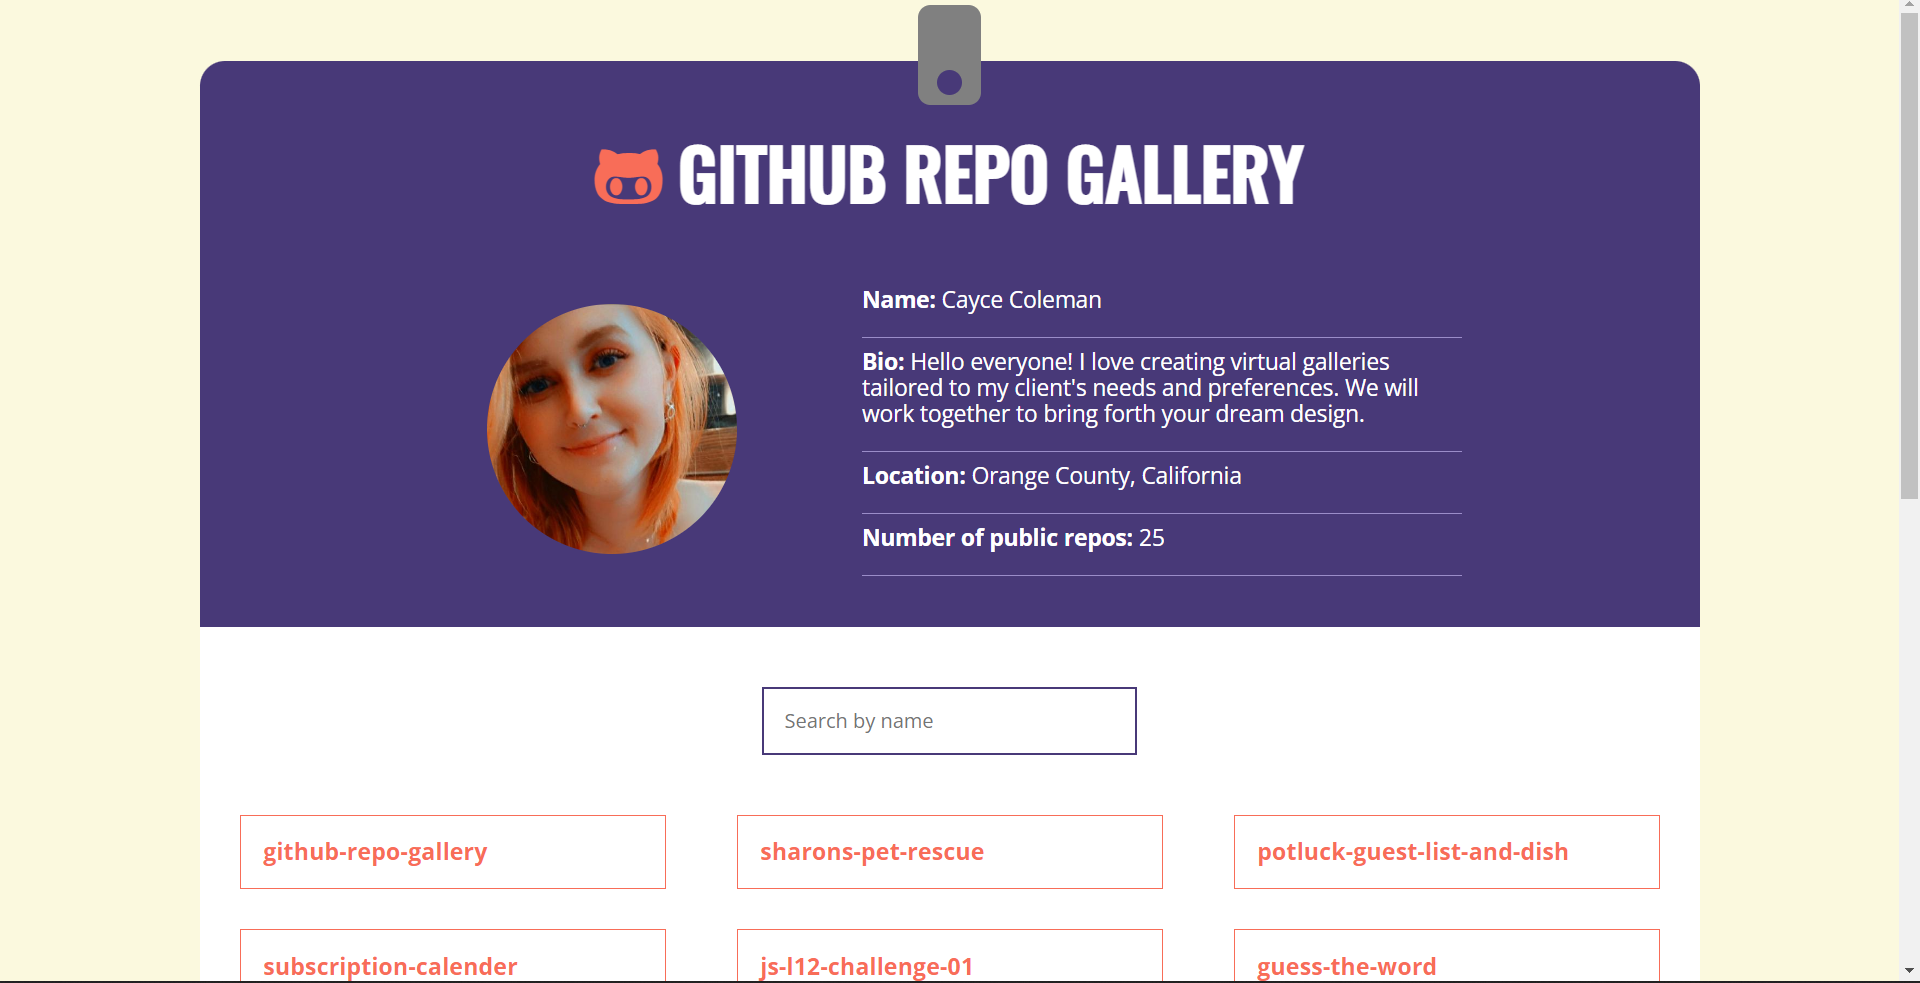
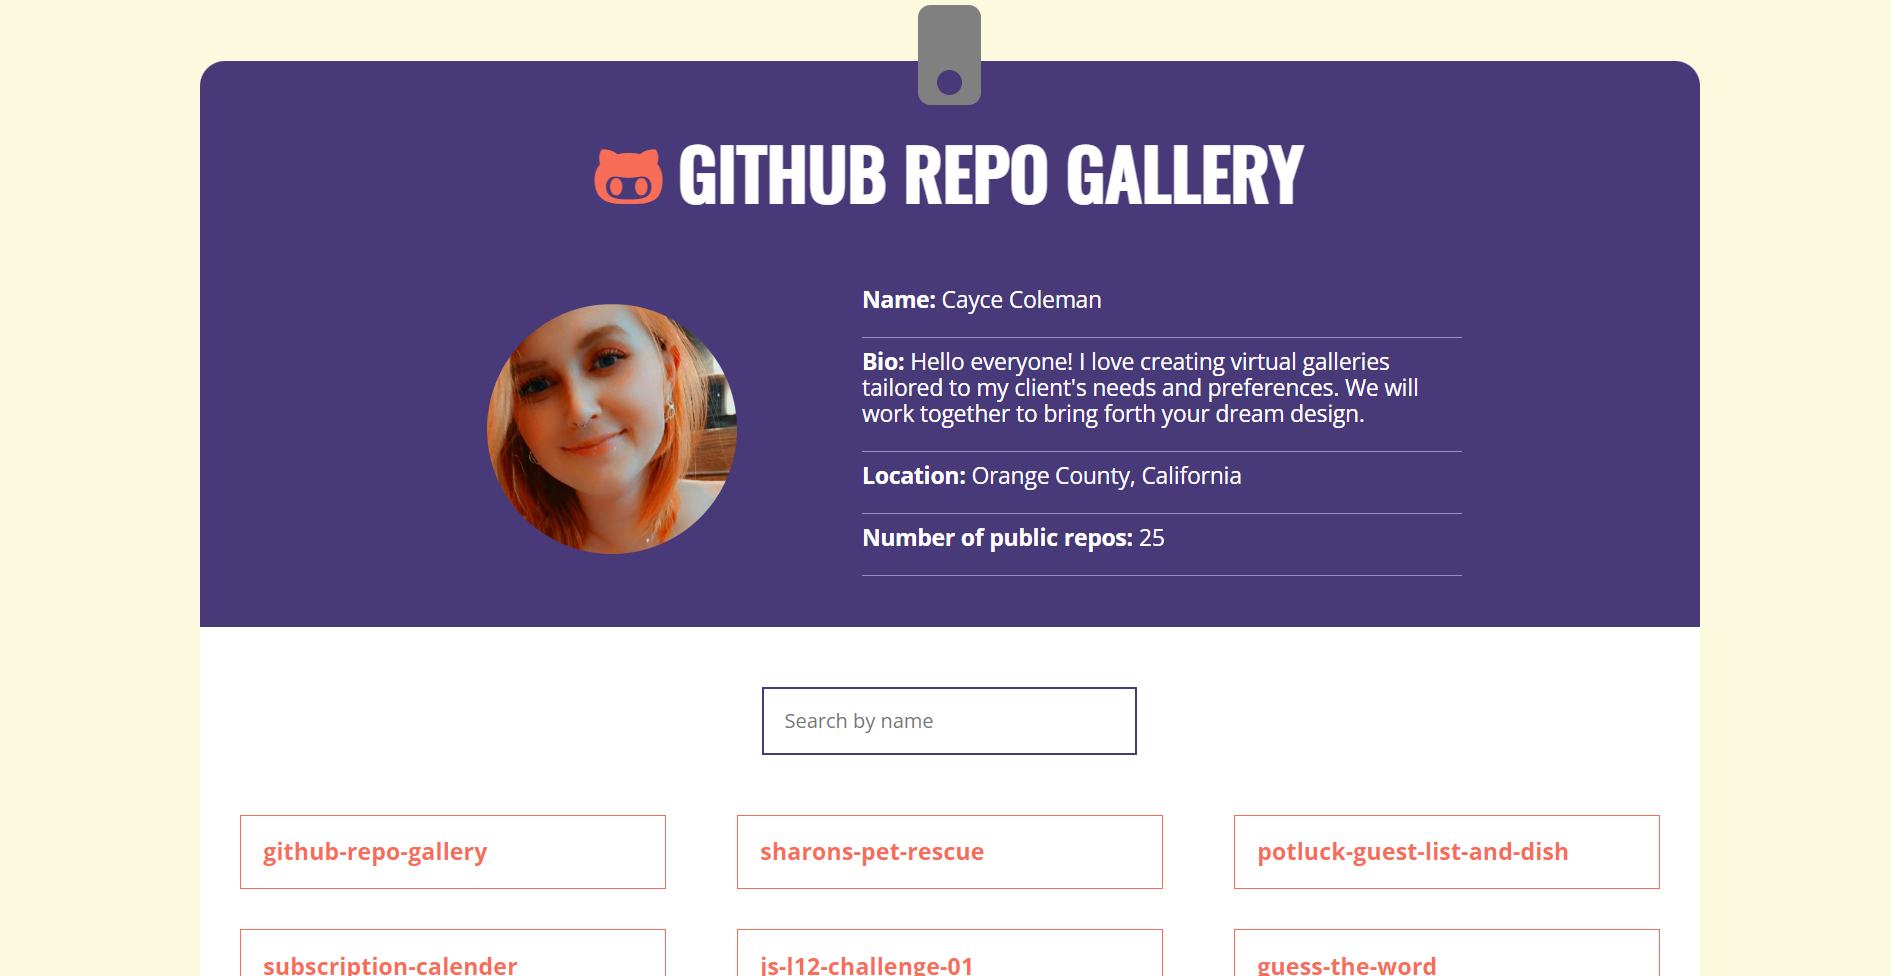
fixed mobile issue

diff --git a/css/main.css b/css/main.css
@@ -34,13 +34,15 @@ header {
 nav ul {
   list-style-type: none;
   width: 100%;
+  text-align: center;
+  margin: auto;
+  padding: 0;
+  overflow: hidden;
 }
 
 nav ul li {
-  float: right;
   margin-right:0.5em;
-  display: block;
-  padding-right: 5em;
+  display: inline-block;
 }
 
 nav ul li a {
@@ -57,9 +59,11 @@ nav ul li a {
 }
 
 .content-wrapper {
- width: 1200px;
- margin: 0 auto;
  overflow: auto;
+ width: 100%;
+ max-width: 1200px;
+ margin: auto;
+ text-align: center;
 }
 
 nav ul li a:hover, nav ul li a:focus {
@@ -89,18 +93,20 @@ h1, h2, h3, h4, h5 {
 #work, #about, #skills, #contact {
   margin-top: 5em;
   margin-bottom: 5em;
+  text-align: center;
 }
 
 .portfolio-projects {
-  width: 550px;
+  width: 100%;
   float: left;
-  margin-right: 2em;
+  margin-right: 1em;
   text-align: center;
 }
 
 img {
- width:20em;
+ width:96%;
  height:15em;
+ margin: auto;
 }
 
 main p a {
@@ -124,7 +130,7 @@ main p a:hover, nav ul li a:focus {
 
 .skills ul li a {
   list-style-type: none;
-  width:1200px;
+  width:100%;
 }
 
 .portfolio-wrapper {
@@ -132,14 +138,12 @@ main p a:hover, nav ul li a:focus {
 }
 
 .half-wrapper {
-  float:left;
-  width:550px;
   padding-left: 20px;
   padding-right: 20px;  
 }
 
 .half-wrapper ul li {
-  text-align: right;
+  text-align: center;
   list-style-type: none;
 }
 
@@ -158,30 +162,45 @@ main p a:hover, nav ul li a:focus {
 }
 
 .full-width {
-  width: 1200px;
+  width: 100%;
   margin: auto;
   overflow: auto;
+  text-align: center;
 }
 
 .third-width {
-  float: left;
-  width:325px;
   padding:15px;
   margin-left:20px;
   margin-right: 25px;
+  text-align: center;
+}
+
+.third-width p a {
+  list-style-type: none;
+}
+.third-width ul {
+margin-right: 2em;
 }
 
 .third-width ul li {
   list-style-type: none;
+  text-align: center;
 }
 
 #about {
   background-color: #cf90d2;
-  width: 1200px;
+  width: 100%;
+  max-width: 1200px;
+  margin: auto;
 }
 
 footer {
   text-align: center;
+}
+
+#email {
+  list-style-type: none;
+  text-decoration: none;
 }
 
 #contact .content-wrapper p {
@@ -192,27 +211,74 @@ span {
   font-weight: bold;
 }
 
+@media only screen and (min-width: 460px) {
 
+  nav {
+    position: absolute;
+    right: 0;
+    top: 0;
+  }
 
-@media screen and (max-width: 768px) {
-header {
-  width:768px;
-}
+  img {
+    width:86%;
+    height:25em;
+    overflow-x: hidden;
+   }
 
-#about {
-  width: 768px;
-}
-}
-
-@media screen and (max-width: 375px) {
-  header {
-    width:375px;
+   .half-wrapper ul li {
+    text-align: right;
+    list-style-type: none;
   }
   
-  #about {
-    width: 375px;
+  .half-wrapper {
+    float: right;
   }
+
 }
+
+@media only screen and (min-width: 768px) {
+
+  body {
+    overflow-x: hidden;
+  }
+
+  nav {
+    width: fit-content;
+  }
+
+  .portfolio-projects {
+    margin:auto;
+    display: block;
+    text-align: center;
+    float: left;
+    width:50%;
+    overflow-x: hidden;
+
+  }
+
+  #work {
+    float: left;
+    width: 100%;
+  padding: 5px;
+  }
+
+  .half-wrapper {
+    width: 30%;
+    margin: auto;
+    display:inline-block;
+    text-align: center;
+    padding-right: 15em;
+  }
+
+  .third-width {
+    display:inline-block;
+    text-align:center;
+    width:25%;
+    margin: auto;
+  }
+
+}
+
 /*
  * Remove text-shadow in selection highlight:
  * https://twitter.com/miketaylr/status/12228805301

diff --git a/index.html b/index.html
@@ -26,7 +26,7 @@
 </head>
 
 <body>
-
+  <meta name="viewport" content="width=device-width, initial-scale=1">
   <!-- Add your site or application content here -->
   <header>
     <div class="content-wrapper"></div>
@@ -113,6 +113,9 @@
                 <li>ES6 and JSX</li>
                 <li>APIs</li>
                <li>Vanilla Javascript</li>
+               <li>Flexbox</li>
+               <li>Responsive Typography</li>
+               <li>Media Queries</li>
              </ul>
              </div>
             <div class="half-wrapper">
@@ -147,7 +150,7 @@
       <div class="third-width">
         <h4>Contact Me</h4>
         <p>714-272-0619</p>
-        <p>cayce.coleman@outlook.com</p>
+        <p id="email"><a href="mailto:cayce.coleman@outlook.com? subject=Job Inquiry">cayce.coleman@outlook.com</a></p>
       </div>
       <div class="third-width">
         <h4>Follow Me</h4>
